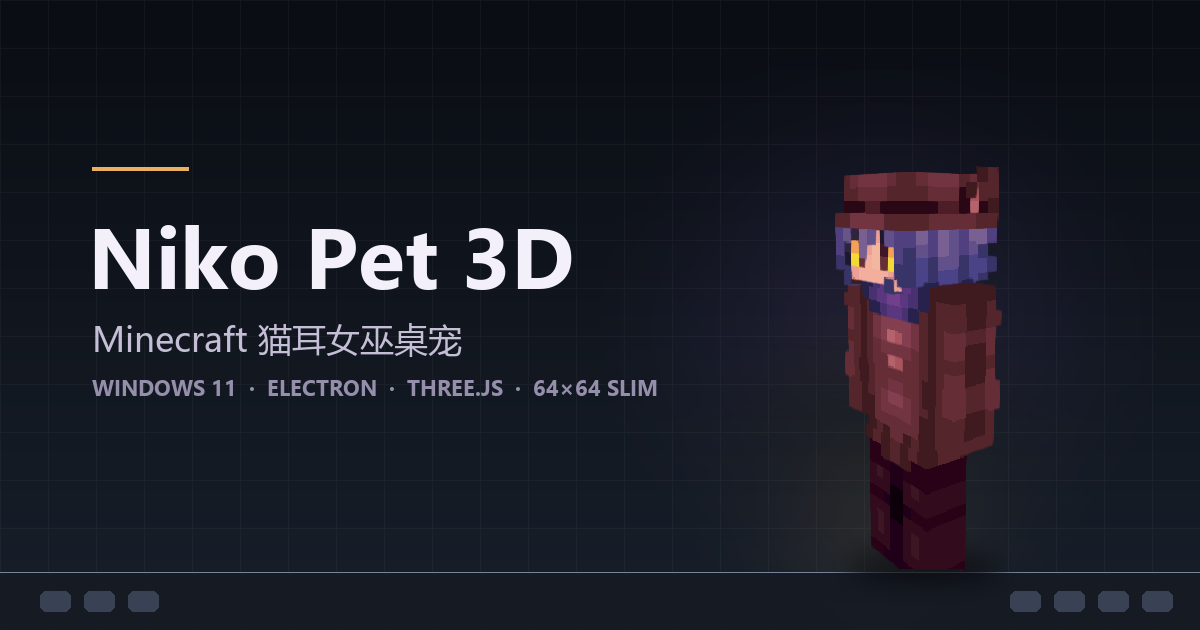
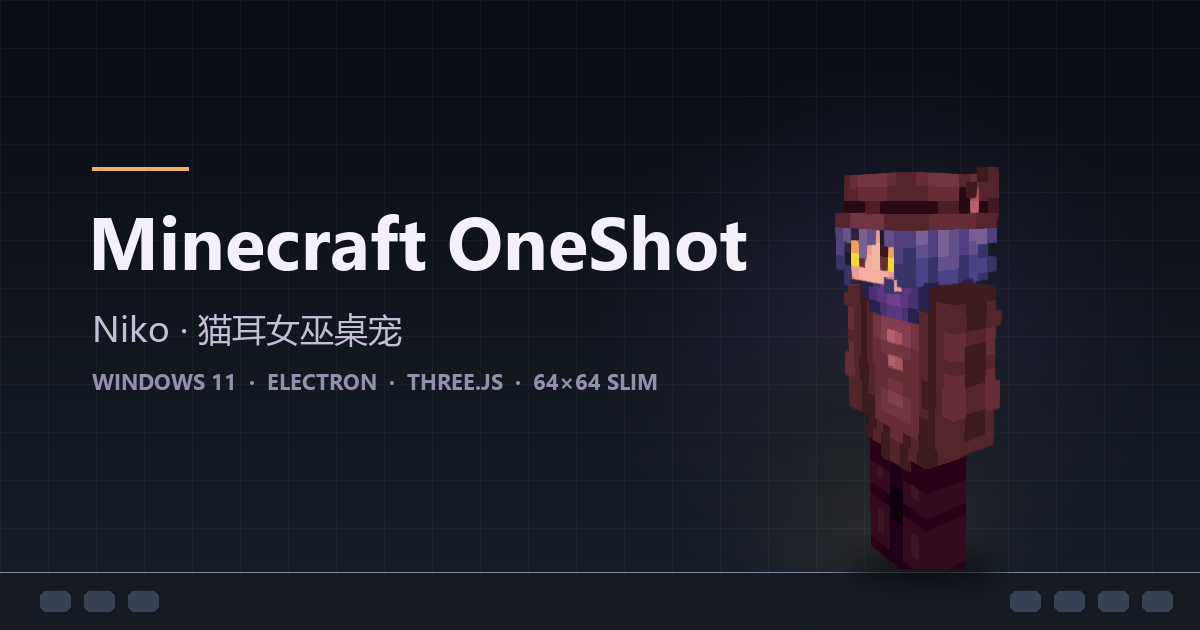
docs: 品牌更名为 Minecraft OneShot 桌宠
横幅主标题改为 Minecraft OneShot，README 标题与简介、package.json 描述同步；补充《OneShot》Niko 的角色版权与免责说明。

Changed region(s): [[0.0617, 0.3317, 0.6167, 0.6333]]

diff --git a/README.md b/README.md
@@ -1,4 +1,4 @@
-# Niko Pet 3D
+# Minecraft OneShot 桌宠
 
 <p align="center">
   <img src="docs/screenshots/niko-banner.png" alt="Niko Pet 3D —— Minecraft 猫耳女巫桌宠" width="100%">
@@ -11,7 +11,7 @@
   <img alt="Code license" src="https://img.shields.io/badge/code%20license-MIT-3DA639">
 </p>
 
-一个慵懒的 3D Minecraft 桌宠：把 **64×64 Slim 双层皮肤**实时渲染成可动的 3D 角色，待在 Windows 11 任务栏上方——散步、眨眼、东张西望、坐下打盹、伸懒腰、掏面包啃、屏幕变暗时举起火把。
+一个慵懒的 OneShot × Minecraft 风格 3D 桌宠：把 **64×64 Slim 双层皮肤**实时渲染成可动的 3D 角色——Niko，《OneShot》里那只猫耳女巫。她待在 Windows 11 任务栏上方，散步、眨眼、东张西望、坐下打盹、伸懒腰、掏面包啃、屏幕变暗时举起火把。
 
 - 角色永久固定为 **64×64 Minecraft Slim 双层皮肤**，保留像素外观、贴图 UV 与内外层结构，只在此基础上叠加骨骼与次级动作。
 - 桌面上**没有任何文字、气泡或名字牌**；显示/隐藏、设置、拍照、退出都在托盘和设置窗口里。
@@ -26,7 +26,7 @@
   <img src="docs/screenshots/niko-model.png" alt="Niko 的 64×64 Slim 双层皮肤 3D 模型" width="180">
 </p>
 
-- 皮肤固定为 **64×64 RGBA、Slim（3px 手臂）、双层**，Three.js + skinview3d 按原贴图 UV 渲染，保留内外层结构，不改贴图、不替换模型。
+- 皮肤固定为 **64×64 RGBA、Slim（3px 手臂）、双层**，Three.js + skinview3d 按原贴图 UV 渲染，保留内外层结构，不改贴图、不替换模型。角色是《OneShot》的 Niko，模型按 Minecraft 皮肤格式重绘。
 - 固定 3/4 视角，走路时轻微转身；呼吸、眨眼、头部跟随鼠标、四肢摆动都只叠加在原有像素模型上。
 - 桌宠窗口不绘制任何文字、气泡或名字牌，调试信息只写日志。
 
@@ -148,7 +148,7 @@ pnpm typecheck  # 只做类型检查
 
 | 路径 | 内容 | 授权 |
 |---|---|---|
-| `public/assets/skin/niko.png` | 64×64 RGBA、Slim（3px 手臂）、双层 | 项目所有者提供的皮肤贴图 |
+| `public/assets/skin/niko.png` | 64×64 RGBA、Slim（3px 手臂）、双层 | 项目所有者提供的贴图（角色 Niko 来自《OneShot》） |
 | `public/assets/vanilla/sounds/**` | Minecraft Java 1.20.1 原声（脚步、猫呼噜、咀嚼、火把、末影、点击……） | © Mojang Studios / Microsoft，非 MIT |
 | `public/assets/vanilla/textures/**` | 面包、火把、爱心、火焰、粒子贴图 | © Mojang Studios / Microsoft，非 MIT |
 | `public/assets/whale/Ya1.mp3`、`Ya2.mp3` | 按下 / 松开点击音 | 来自 `dsh-whale-widget`，as-is，非 MIT |
@@ -226,7 +226,7 @@ docs/         需求、技术方案、决策记录、素材清单、QA 与开发
 ## 许可与免责声明
 
 - **代码**：MIT，见 [LICENSE](LICENSE)。
-- **素材**：Minecraft 音效与贴图 © Mojang Studios / Microsoft，**不在 MIT 授权范围内**；`dsh-whale-widget` 的点击音效按原插件 as-is 提供，不可再许可；皮肤贴图由项目所有者提供。第三方素材清单与来源见 [NOTICE.md](NOTICE.md)。
-- 本项目是**非官方**的个人作品，与 Mojang Studios、Microsoft、DeepSeek 均无关联，也未获其背书。
+- **素材**：Minecraft 音效与贴图 © Mojang Studios / Microsoft，**不在 MIT 授权范围内**；Niko 角色来自游戏《OneShot》，版权归其创作者（Future Cat LLC）所有，皮肤贴图由项目所有者提供；`dsh-whale-widget` 的点击音效按原插件 as-is 提供，不可再许可。第三方素材清单与来源见 [NOTICE.md](NOTICE.md)。
+- 本项目是**非官方**的个人作品，与 Mojang Studios、Microsoft、Future Cat LLC、DeepSeek 均无关联，也未获其背书。
 - Minecraft 素材仅用于个人、非商业的桌宠展示；如果你要公开分发、商用或做衍生发布，请先替换为自有素材，或取得权利方许可。
 - 若权利方认为本仓库内容不当，请通过 issue 联系，我会立即移除相关素材。

diff --git a/NOTICE.md b/NOTICE.md
@@ -2,6 +2,10 @@
 
 本文件说明仓库里**不属于 MIT 授权**的内容。代码部分见 [LICENSE](LICENSE)。
 
+## 0. 角色
+
+Niko（猫耳女巫）是独立游戏 **《OneShot》**（Future Cat LLC）的角色。本项目是非官方的同人桌宠，角色形象与名称版权归原作者所有，与 Minecraft 一样不属于 MIT 授权范围；未获官方背书，官方要求时会立即下架。Minecraft 皮肤格式只是承载形式。
+
 ## 1. 角色皮肤
 
 | 文件 | 说明 |

diff --git a/CHANGELOG.md b/CHANGELOG.md
@@ -2,6 +2,11 @@
 
 本项目遵循 [语义化版本](https://semver.org/lang/zh-CN/)。
 
+## [未发布]
+
+- **品牌更名**：对外名称统一为「Minecraft OneShot 桌宠」，README 标题、横幅、仓库描述同步更新。
+- 补充《OneShot》角色（Niko）的版权与免责说明：非官方同人作品，角色版权归 Future Cat LLC 所有。
+
 ## [0.1.0] - 2026-10-21
 
 首个公开版本。
